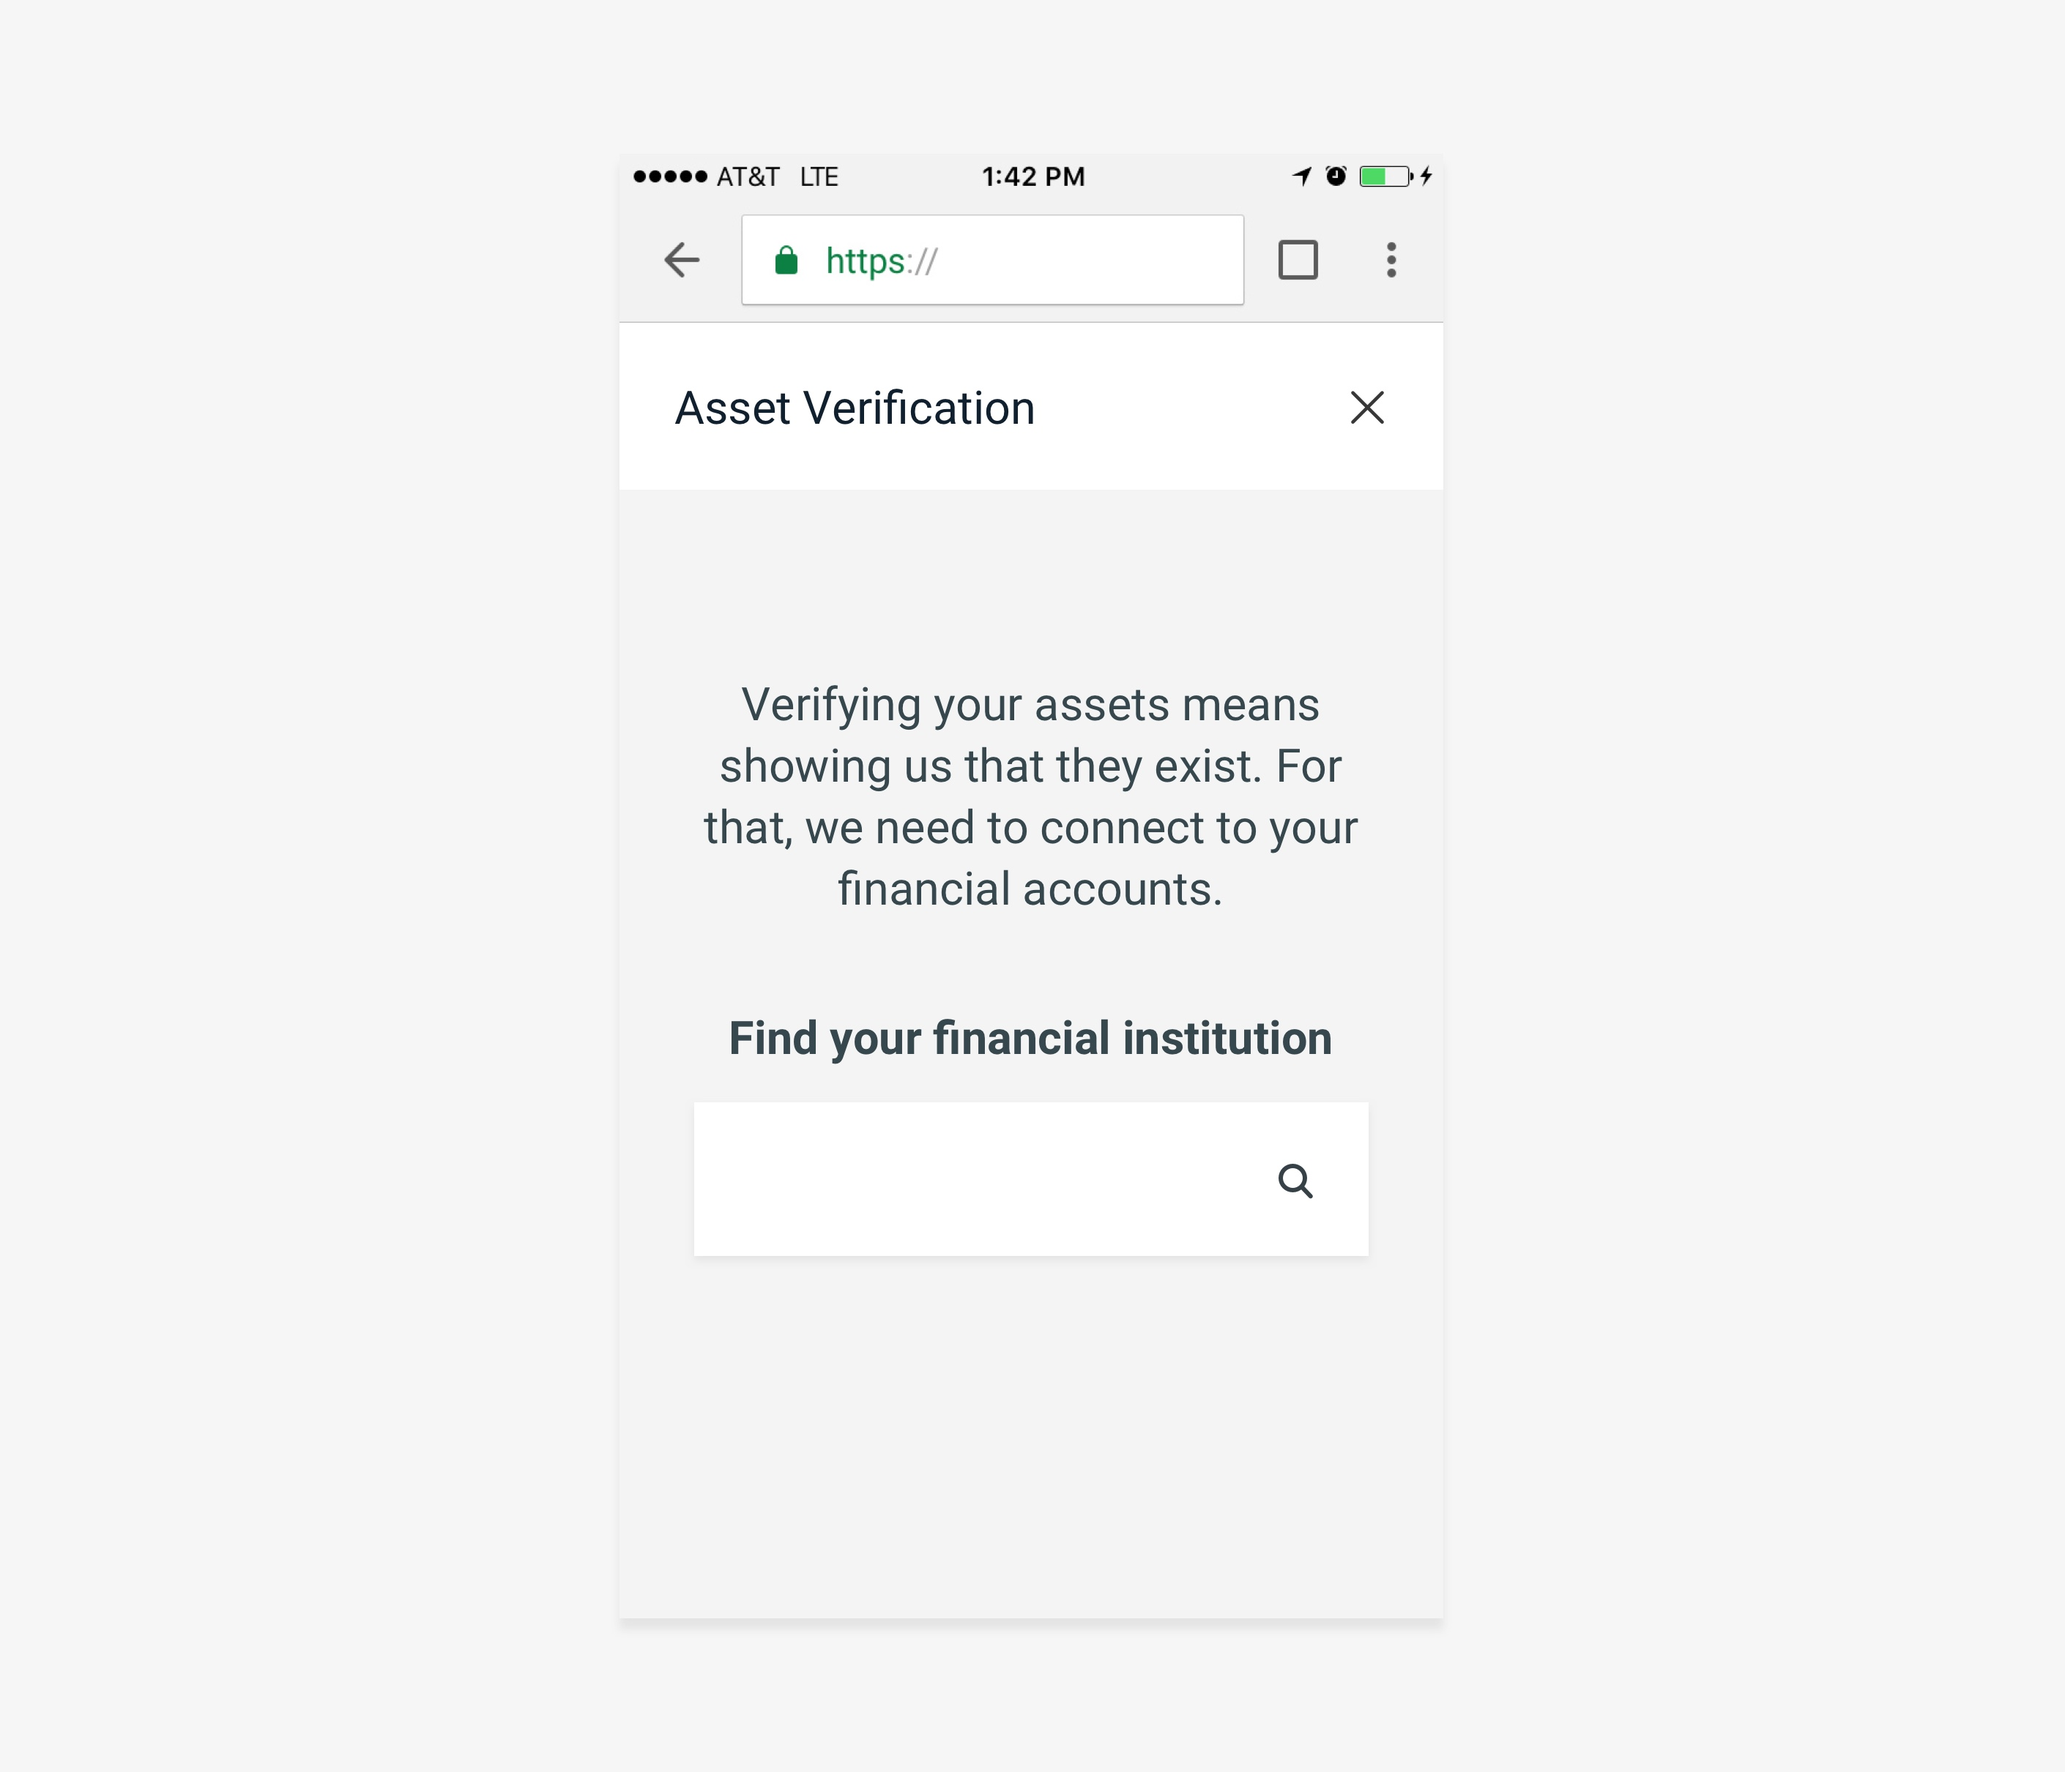
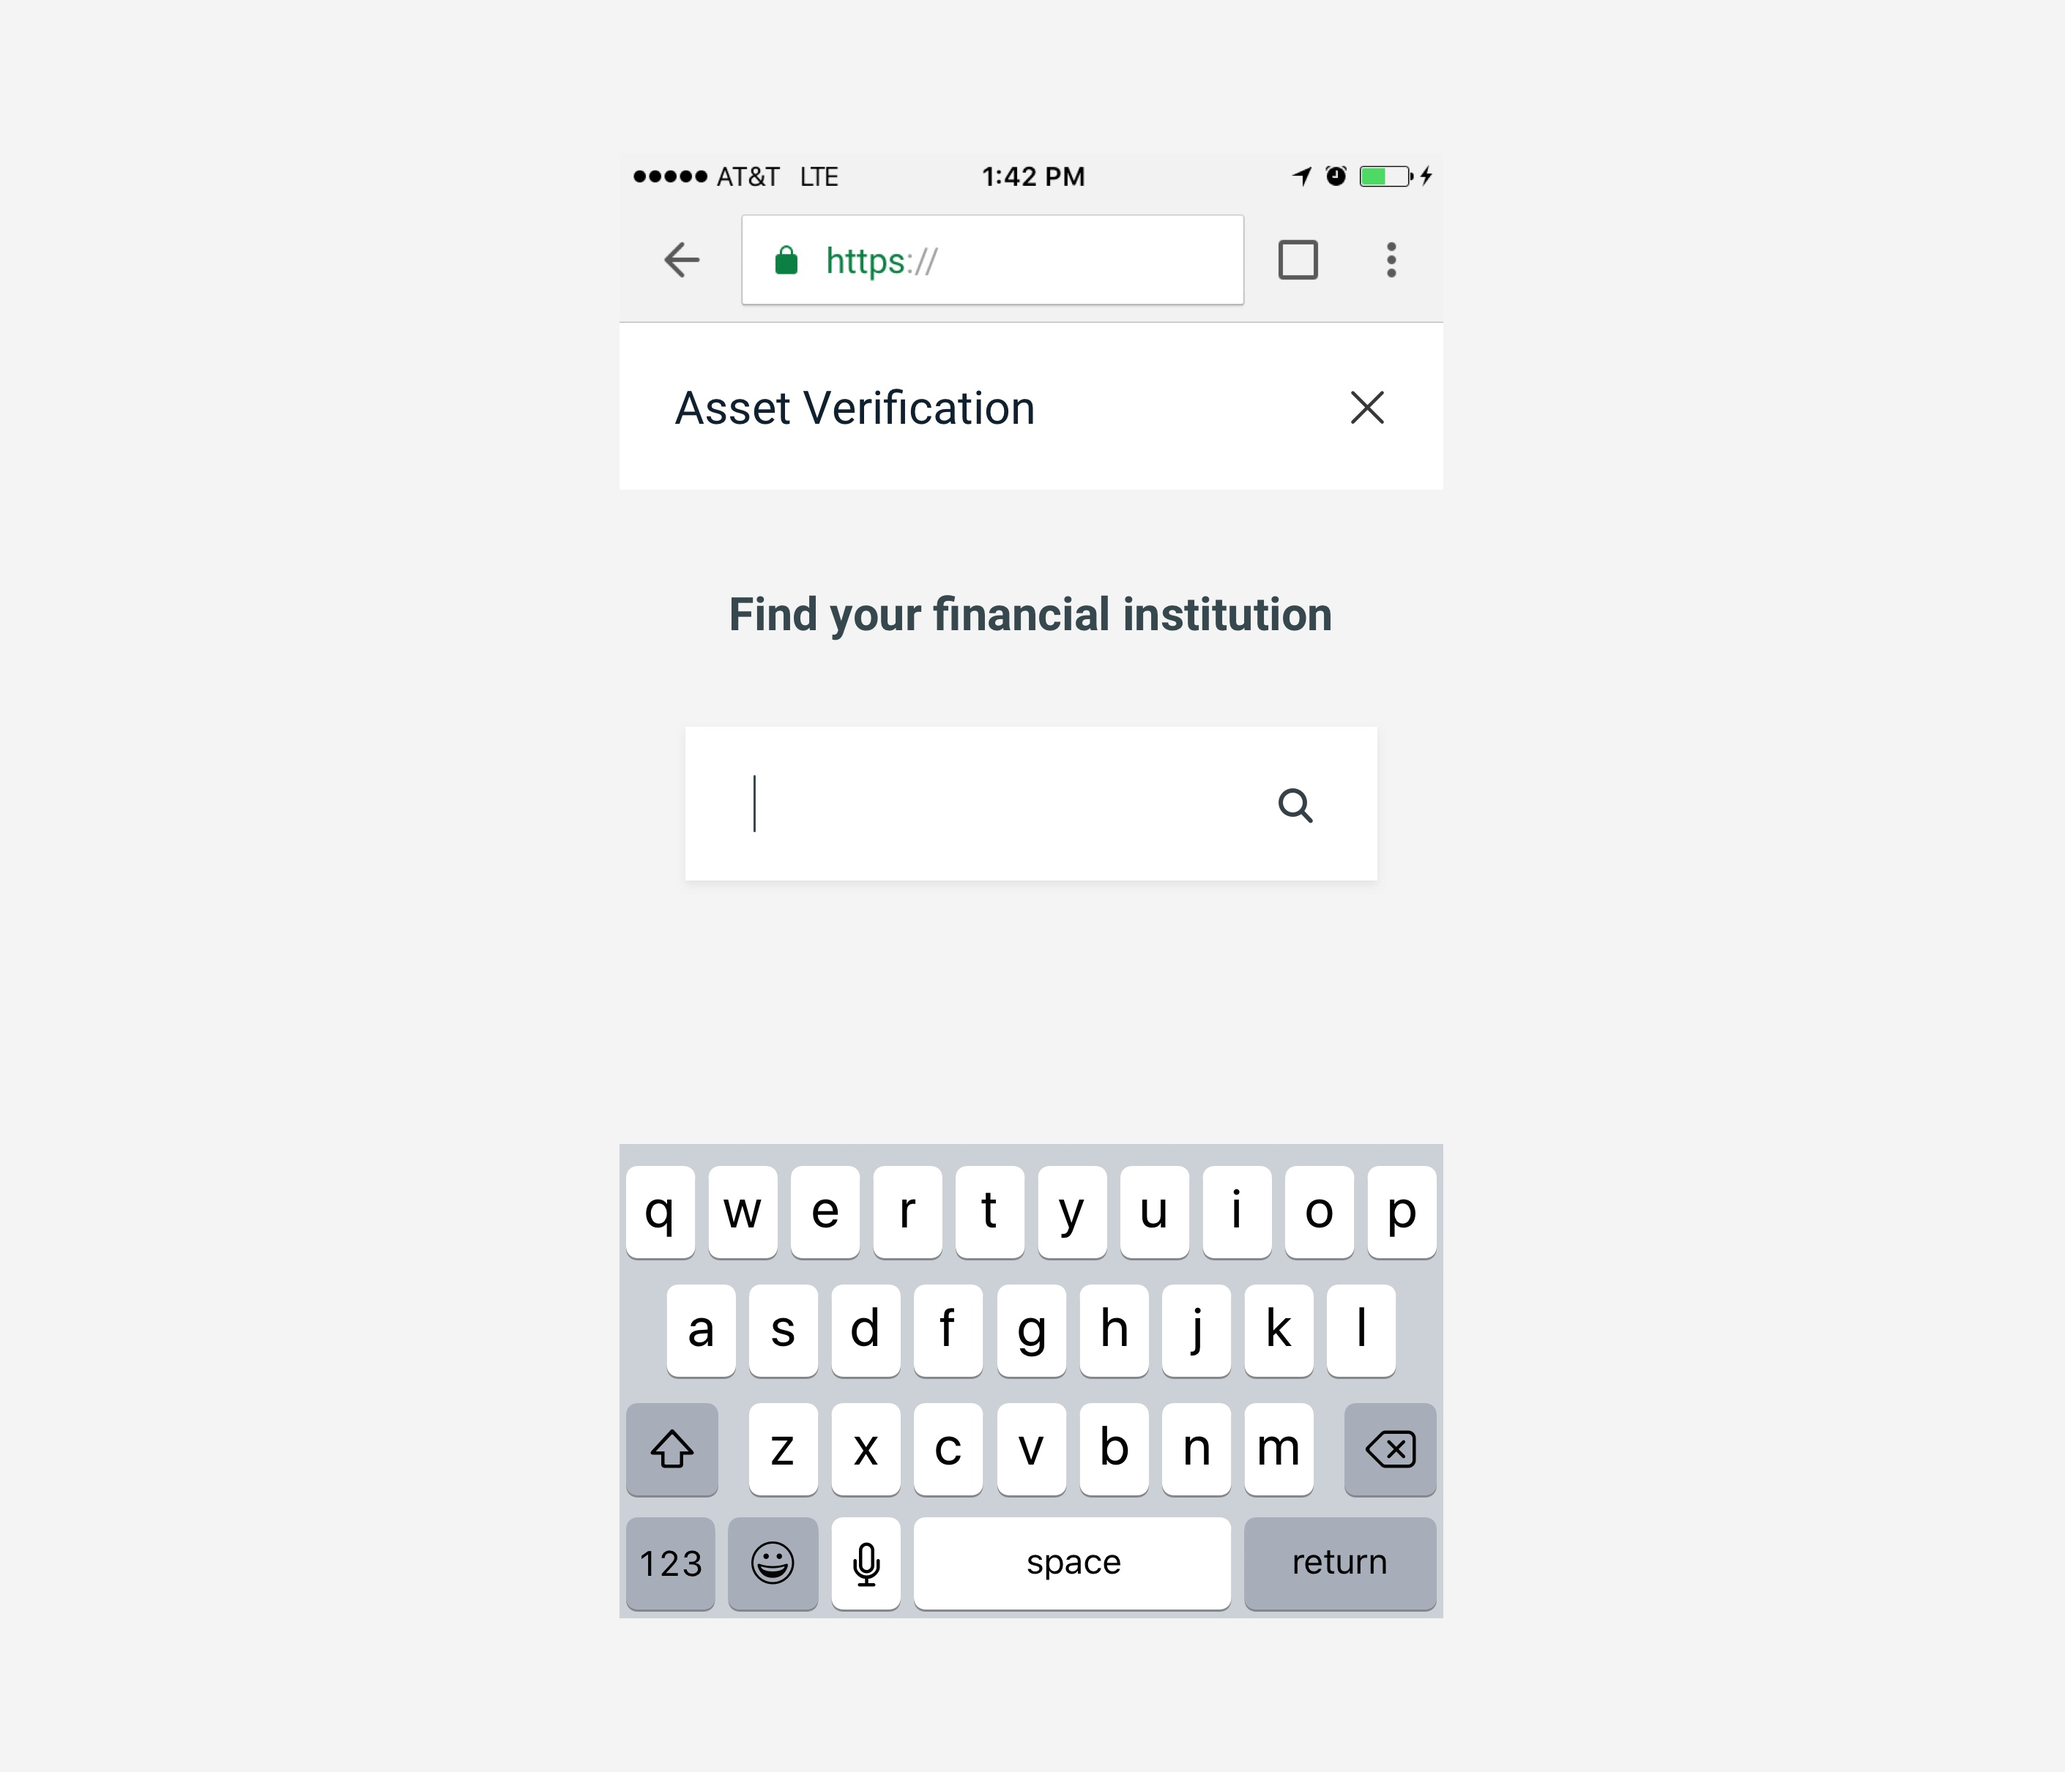
Updating case studies with images and copy

Changed region(s): [[0.2809, 0.5576, 0.7177, 0.9294], [0.3433, 0.3408, 0.6553, 0.5266]]

diff --git a/_site/work/experian/index.html b/_site/work/experian/index.html
@@ -44,7 +44,7 @@
 
 <div class="mw7 center mb4 ph4">
   <div class="cf">
-    <p class="f4-l lh-copy dark-gray mb4">I’ve spent the last 6 months at <a href="http://experian.com">Experian</a> working primarily on three products: <a href="https://www.experian.com/consumer-information/virtual-debt-resolution-negotiation-eResolve.html">eResolve</a>, <a href="http://www.experian.com/blogs/news/2017/07/11/text-credit-modernizes-lending-industry-allowing-consumers-obtain-real-time-credit-via-text/">Text for Credit</a> and <a href="http://www.experian.com/consumer-information/account-aggregation-solutions.html">Income and Asset Verification</a>.  All three projects are still in progress. Stay tuned for a full write-up and images of key Experian projects.</p>
+    <p class="f4-l lh-copy dark-gray mb4">I’ve spent the last 6 months at <a href="http://experian.com">Experian</a> working primarily on three products: <a href="https://www.experian.com/consumer-information/virtual-debt-resolution-negotiation-eResolve.html">eResolve</a>, <a href="http://www.experian.com/blogs/news/2017/07/11/text-credit-modernizes-lending-industry-allowing-consumers-obtain-real-time-credit-via-text/">Text for Credit</a> and <a href="http://www.experian.com/consumer-information/account-aggregation-solutions.html">Income and Asset Verification</a>.  All three projects are still in progress.</p>
 
 <h2 id="eresolve">eResolve</h2>
 
@@ -67,14 +67,13 @@
 
 <p class="f4-l lh-copy dark-gray mb4">Leveraging transactional data to verify income and assets in lending</p>
 
-<p class="wider"><img src="/assets/img/experian/verification-01.jpg" alt="Landing page" title="Landing page" class="mb2 mt2 br2" />
-<img src="/assets/img/experian/verification-02.jpg" alt="Choose a payment option" title="Choose a payment option" class="mb2 mt2 br2" />
-<img src="/assets/img/experian/verification-03.jpg" alt="Payment details" title="Payment details" class="mb2 mt2 br2" />
-<img src="/assets/img/experian/verification-04.jpg" alt="Payment confirmation" title="Payment confirmation" class="mb2 mt2 br2" /></p>
-
-<h2 id="text-for-credit">Text for Credit</h2>
-
-<p class="f4-l lh-copy dark-gray mb4">Instant credit pre-qualification and application starting with a text message.</p>
+<p class="wider"><img src="/assets/img/experian/verification-01.jpg" alt="Find your FI" title="Find your FI" class="mb2 mt2 br2" />
+<img src="/assets/img/experian/verification-02.jpg" alt="Live search" title="Live search" class="mb2 mt2 br2" />
+<img src="/assets/img/experian/verification-03.jpg" alt="Enter FI credentials" title="Enter FI credentials" class="mb2 mt2 br2" />
+<img src="/assets/img/experian/verification-04.jpg" alt="Gathering account information" title="Gathering account information" class="mb2 mt2 br2" />
+<img src="/assets/img/experian/verification-05.jpg" alt="Successfully added 3 accounts" title="Successfully added 3 accounts" class="mb2 mt2 br2" />
+<img src="/assets/img/experian/verification-06.jpg" alt="Third party authorization" title="Third party authorization" class="mb2 mt2 br2" />
+<img src="/assets/img/experian/verification-07.jpg" alt="Account listing" title="Account listing" class="mb2 mt2 br2" /></p>
 
   </div>
 </div>

diff --git a/_site/work/oakley/index.html b/_site/work/oakley/index.html
@@ -52,17 +52,15 @@
 
 <h3 class="mb2 mt4" id="overview">Overview</h3>
 
-<p class="f4-l lh-copy dark-gray mb4">In partnership between Oakley and <a href="http://intel.com">Intel</a>, Radar Pace is a real-time voice activated coaching system leveraging sensor-driven eyewear and your iOS or Android smartphone.</p>
+<p class="f4-l lh-copy dark-gray mb4">Oakley and <a href="http://intel.com">Intel</a> partnered to create Radar Pace, a real-time voice activated coaching system leveraging sensor-driven eyewear and your iOS or Android smartphone.</p>
 
 <h3 class="mb2 mt4" id="role">Role</h3>
 
-<p class="f4-l lh-copy dark-gray mb4">In collaboration with Intel’s New Devices Group UI/UX team, we worked remotely and in-person to whiteboard ideas, create prototypes, conduct user research, present findings to stakeholders and iterat on UI/UX for Radar Pace on iOS and Android platforms. My primary role was to ensure the UI/UX integrity of the app met Oakley’s standards for product design.</p>
+<p class="f4-l lh-copy dark-gray mb4">I worked with Intel’s New Devices Group UI/UX team to whiteboard ideas, create prototypes, conduct user research, present findings to stakeholders and iterate on UI/UX for Radar Pace on iOS and Android platforms. My primary role was to ensure the overall digital experience and visual design of the app met Oakley’s standards for product design.</p>
 
 <h3 class="mb2 mt4" id="challenges">Challenges</h3>
 
-<p class="f4-l lh-copy dark-gray mb4">In the beginning, I did not have much native mobile design experience. Early on, I felt in over my head with a dual-platform app dependent on pairing with external hardware. Being nose deep in all of it was an incredibly valuable learning experience from my perspective.</p>
-
-<h3 class="mb2 mt4" id="what-i-learned">What I learned</h3>
+<h3 class="f4-l lh-copy dark-gray mb4 mb2 mt4" id="what-i-learned">What I learned</h3>
 
 <p class="db ml2 mr4"><strong>•</strong> <strong>Prototype as early as possible.</strong> We got too far into the design before we put the product in front of people for feedback</p>
 

diff --git a/work/experian.md b/work/experian.md
@@ -5,7 +5,7 @@ permalink: /work/experian/
 ---
 
 {: .f4-l .lh-copy .dark-gray .mb4}
-I've spent the last 6 months at [Experian](http://experian.com) working primarily on three products: [eResolve](https://www.experian.com/consumer-information/virtual-debt-resolution-negotiation-eResolve.html), [Text for Credit](http://www.experian.com/blogs/news/2017/07/11/text-credit-modernizes-lending-industry-allowing-consumers-obtain-real-time-credit-via-text/) and [Income and Asset Verification](http://www.experian.com/consumer-information/account-aggregation-solutions.html).  All three projects are still in progress. Stay tuned for a full write-up and images of key Experian projects.
+I've spent the last 6 months at [Experian](http://experian.com) working primarily on three products: [eResolve](https://www.experian.com/consumer-information/virtual-debt-resolution-negotiation-eResolve.html), [Text for Credit](http://www.experian.com/blogs/news/2017/07/11/text-credit-modernizes-lending-industry-allowing-consumers-obtain-real-time-credit-via-text/) and [Income and Asset Verification](http://www.experian.com/consumer-information/account-aggregation-solutions.html).  All three projects are still in progress.
 
 ## eResolve
 
@@ -51,13 +51,10 @@ I've spent the last 6 months at [Experian](http://experian.com) working primaril
 Leveraging transactional data to verify income and assets in lending
 
 {: .wider}
-![Landing page](/assets/img/experian/verification-01.jpg "Landing page"){: .mb2 .mt2 .br2}
-![Choose a payment option](/assets/img/experian/verification-02.jpg "Choose a payment option"){: .mb2 .mt2 .br2}
-![Payment details](/assets/img/experian/verification-03.jpg "Payment details"){: .mb2 .mt2 .br2}
-![Payment confirmation](/assets/img/experian/verification-04.jpg "Payment confirmation"){: .mb2 .mt2 .br2}
-
-
-## Text for Credit
-
-{: .f4-l .lh-copy .dark-gray .mb4}
-Instant credit pre-qualification and application starting with a text message.
+![Find your FI](/assets/img/experian/verification-01.jpg "Find your FI"){: .mb2 .mt2 .br2}
+![Live search](/assets/img/experian/verification-02.jpg "Live search"){: .mb2 .mt2 .br2}
+![Enter FI credentials](/assets/img/experian/verification-03.jpg "Enter FI credentials"){: .mb2 .mt2 .br2}
+![Gathering account information](/assets/img/experian/verification-04.jpg "Gathering account information"){: .mb2 .mt2 .br2}
+![Successfully added 3 accounts](/assets/img/experian/verification-05.jpg "Successfully added 3 accounts"){: .mb2 .mt2 .br2}
+![Third party authorization](/assets/img/experian/verification-06.jpg "Third party authorization"){: .mb2 .mt2 .br2}
+![Account listing](/assets/img/experian/verification-07.jpg "Account listing"){: .mb2 .mt2 .br2}

diff --git a/work/oakley.md b/work/oakley.md
@@ -17,19 +17,19 @@ At Oakley, I collaborated with the interaction design team, internal and externa
 ### Overview
 
 {: .f4-l .lh-copy .dark-gray .mb4}
-In partnership between Oakley and [Intel](http://intel.com), Radar Pace is a real-time voice activated coaching system leveraging sensor-driven eyewear and your iOS or Android smartphone.
+Oakley and [Intel](http://intel.com) partnered to create Radar Pace, a real-time voice activated coaching system leveraging sensor-driven eyewear and your iOS or Android smartphone.
 
 {: .mb2 .mt4}
 ### Role
 
 {: .f4-l .lh-copy .dark-gray .mb4}
-In collaboration with Intel's New Devices Group UI/UX team, we worked remotely and in-person to whiteboard ideas, create prototypes, conduct user research, present findings to stakeholders and iterat on UI/UX for Radar Pace on iOS and Android platforms. My primary role was to ensure the UI/UX integrity of the app met Oakley's standards for product design.
+I worked with Intel's New Devices Group UI/UX team to whiteboard ideas, create prototypes, conduct user research, present findings to stakeholders and iterate on UI/UX for Radar Pace on iOS and Android platforms. My primary role was to ensure the overall digital experience and visual design of the app met Oakley's standards for product design.
 
 {: .mb2 .mt4}
 ### Challenges
 
 {: .f4-l .lh-copy .dark-gray .mb4}
-In the beginning, I did not have much native mobile design experience. Early on, I felt in over my head with a dual-platform app dependent on pairing with external hardware. Being nose deep in all of it was an incredibly valuable learning experience from my perspective.
+
 
 
 {: .mb2 .mt4}
